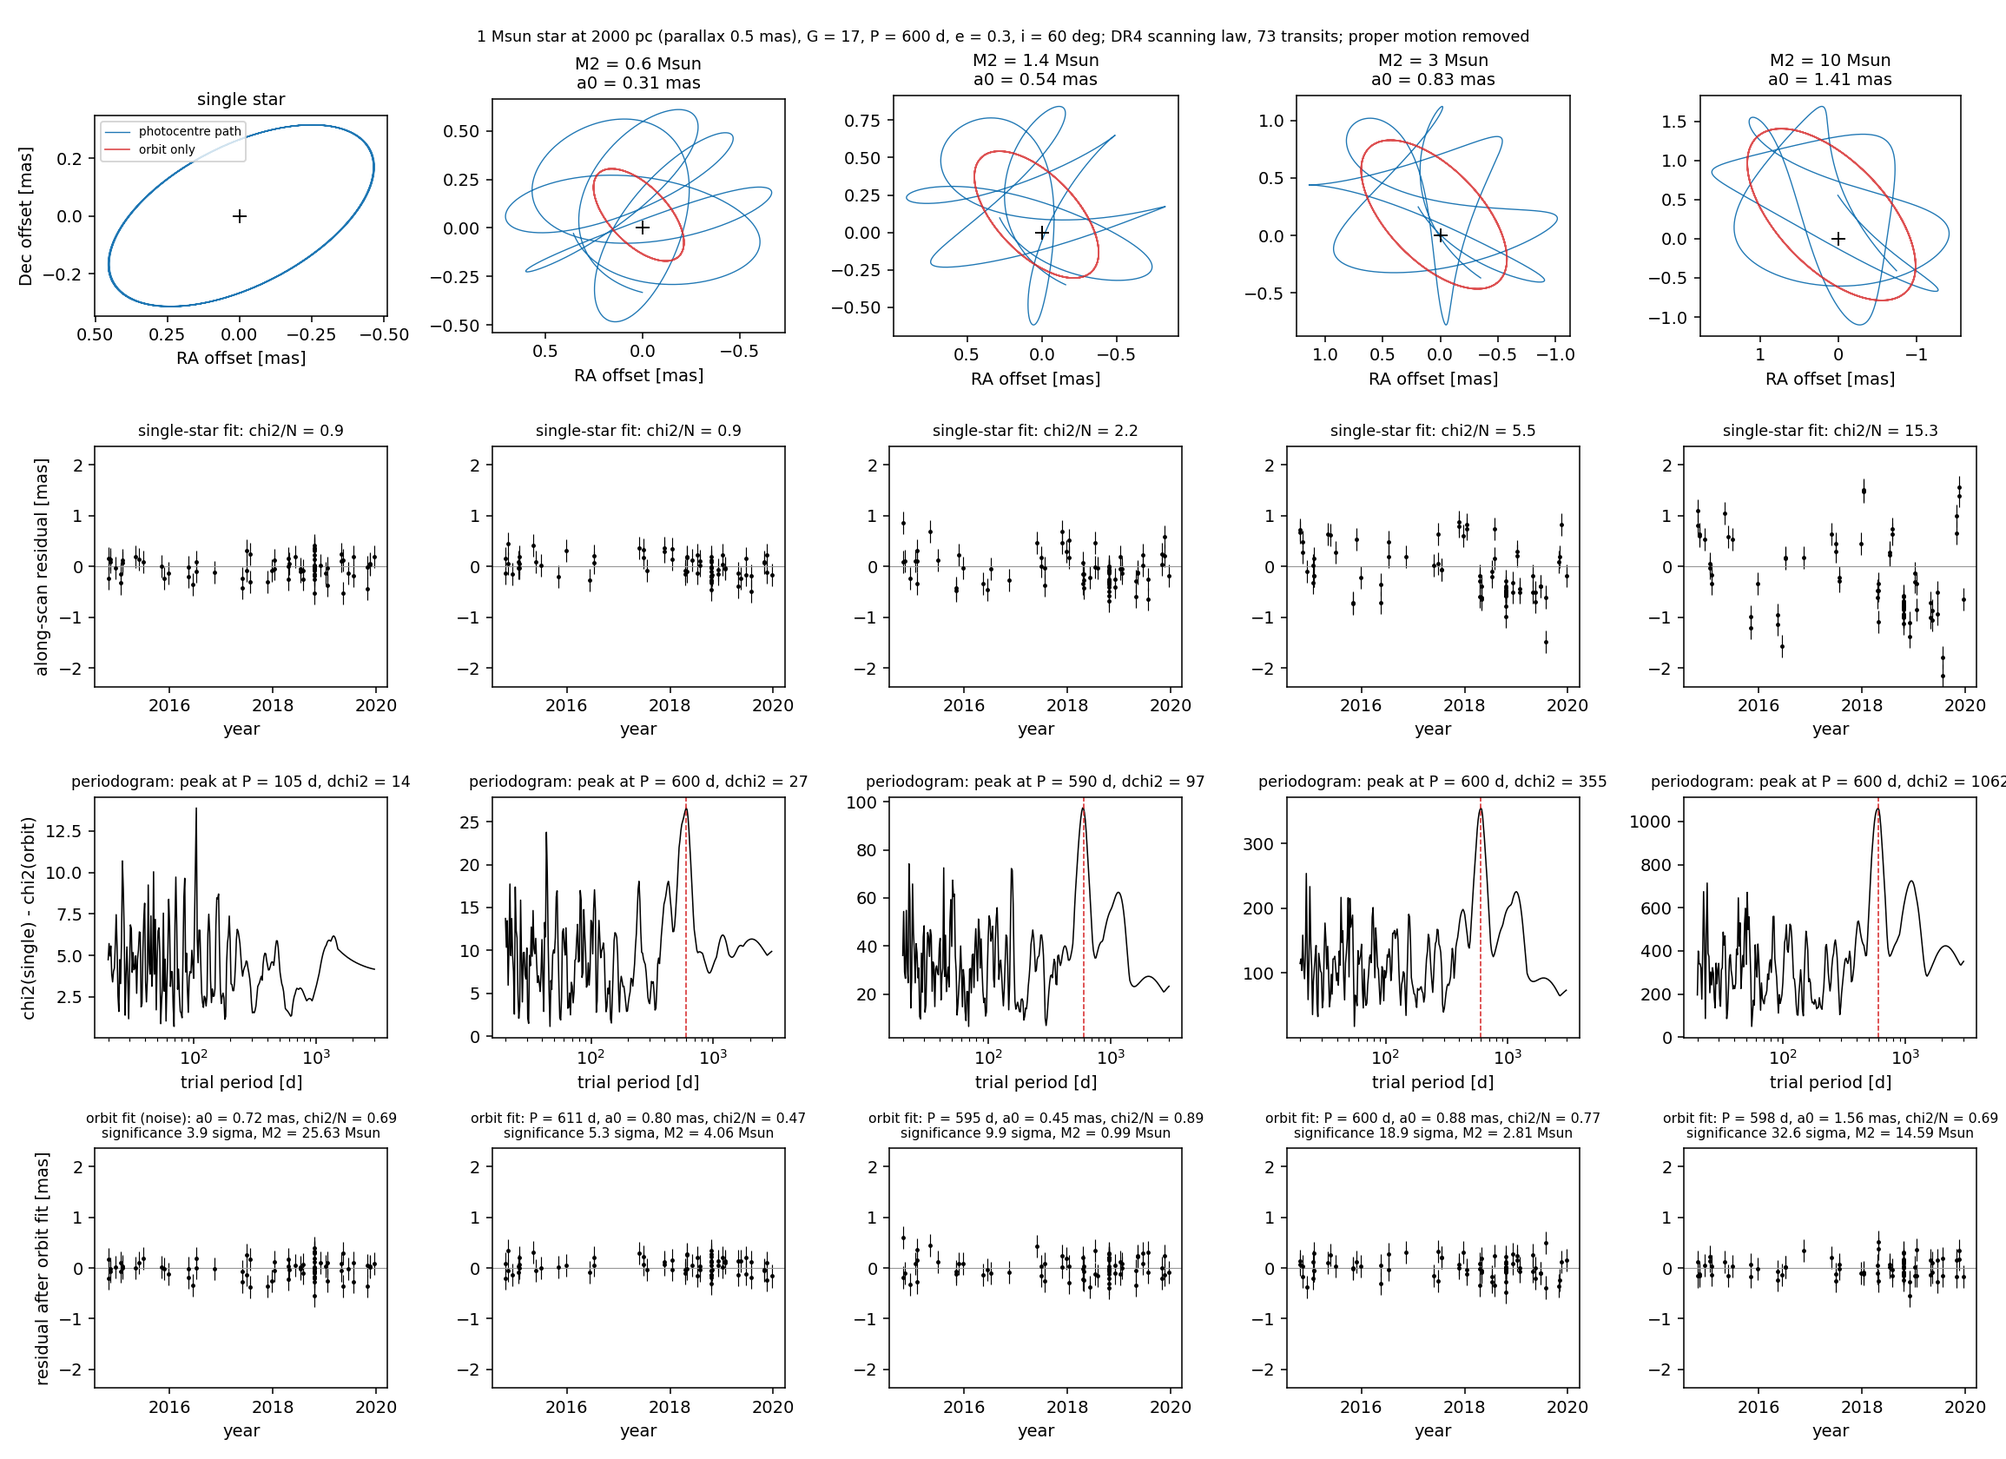
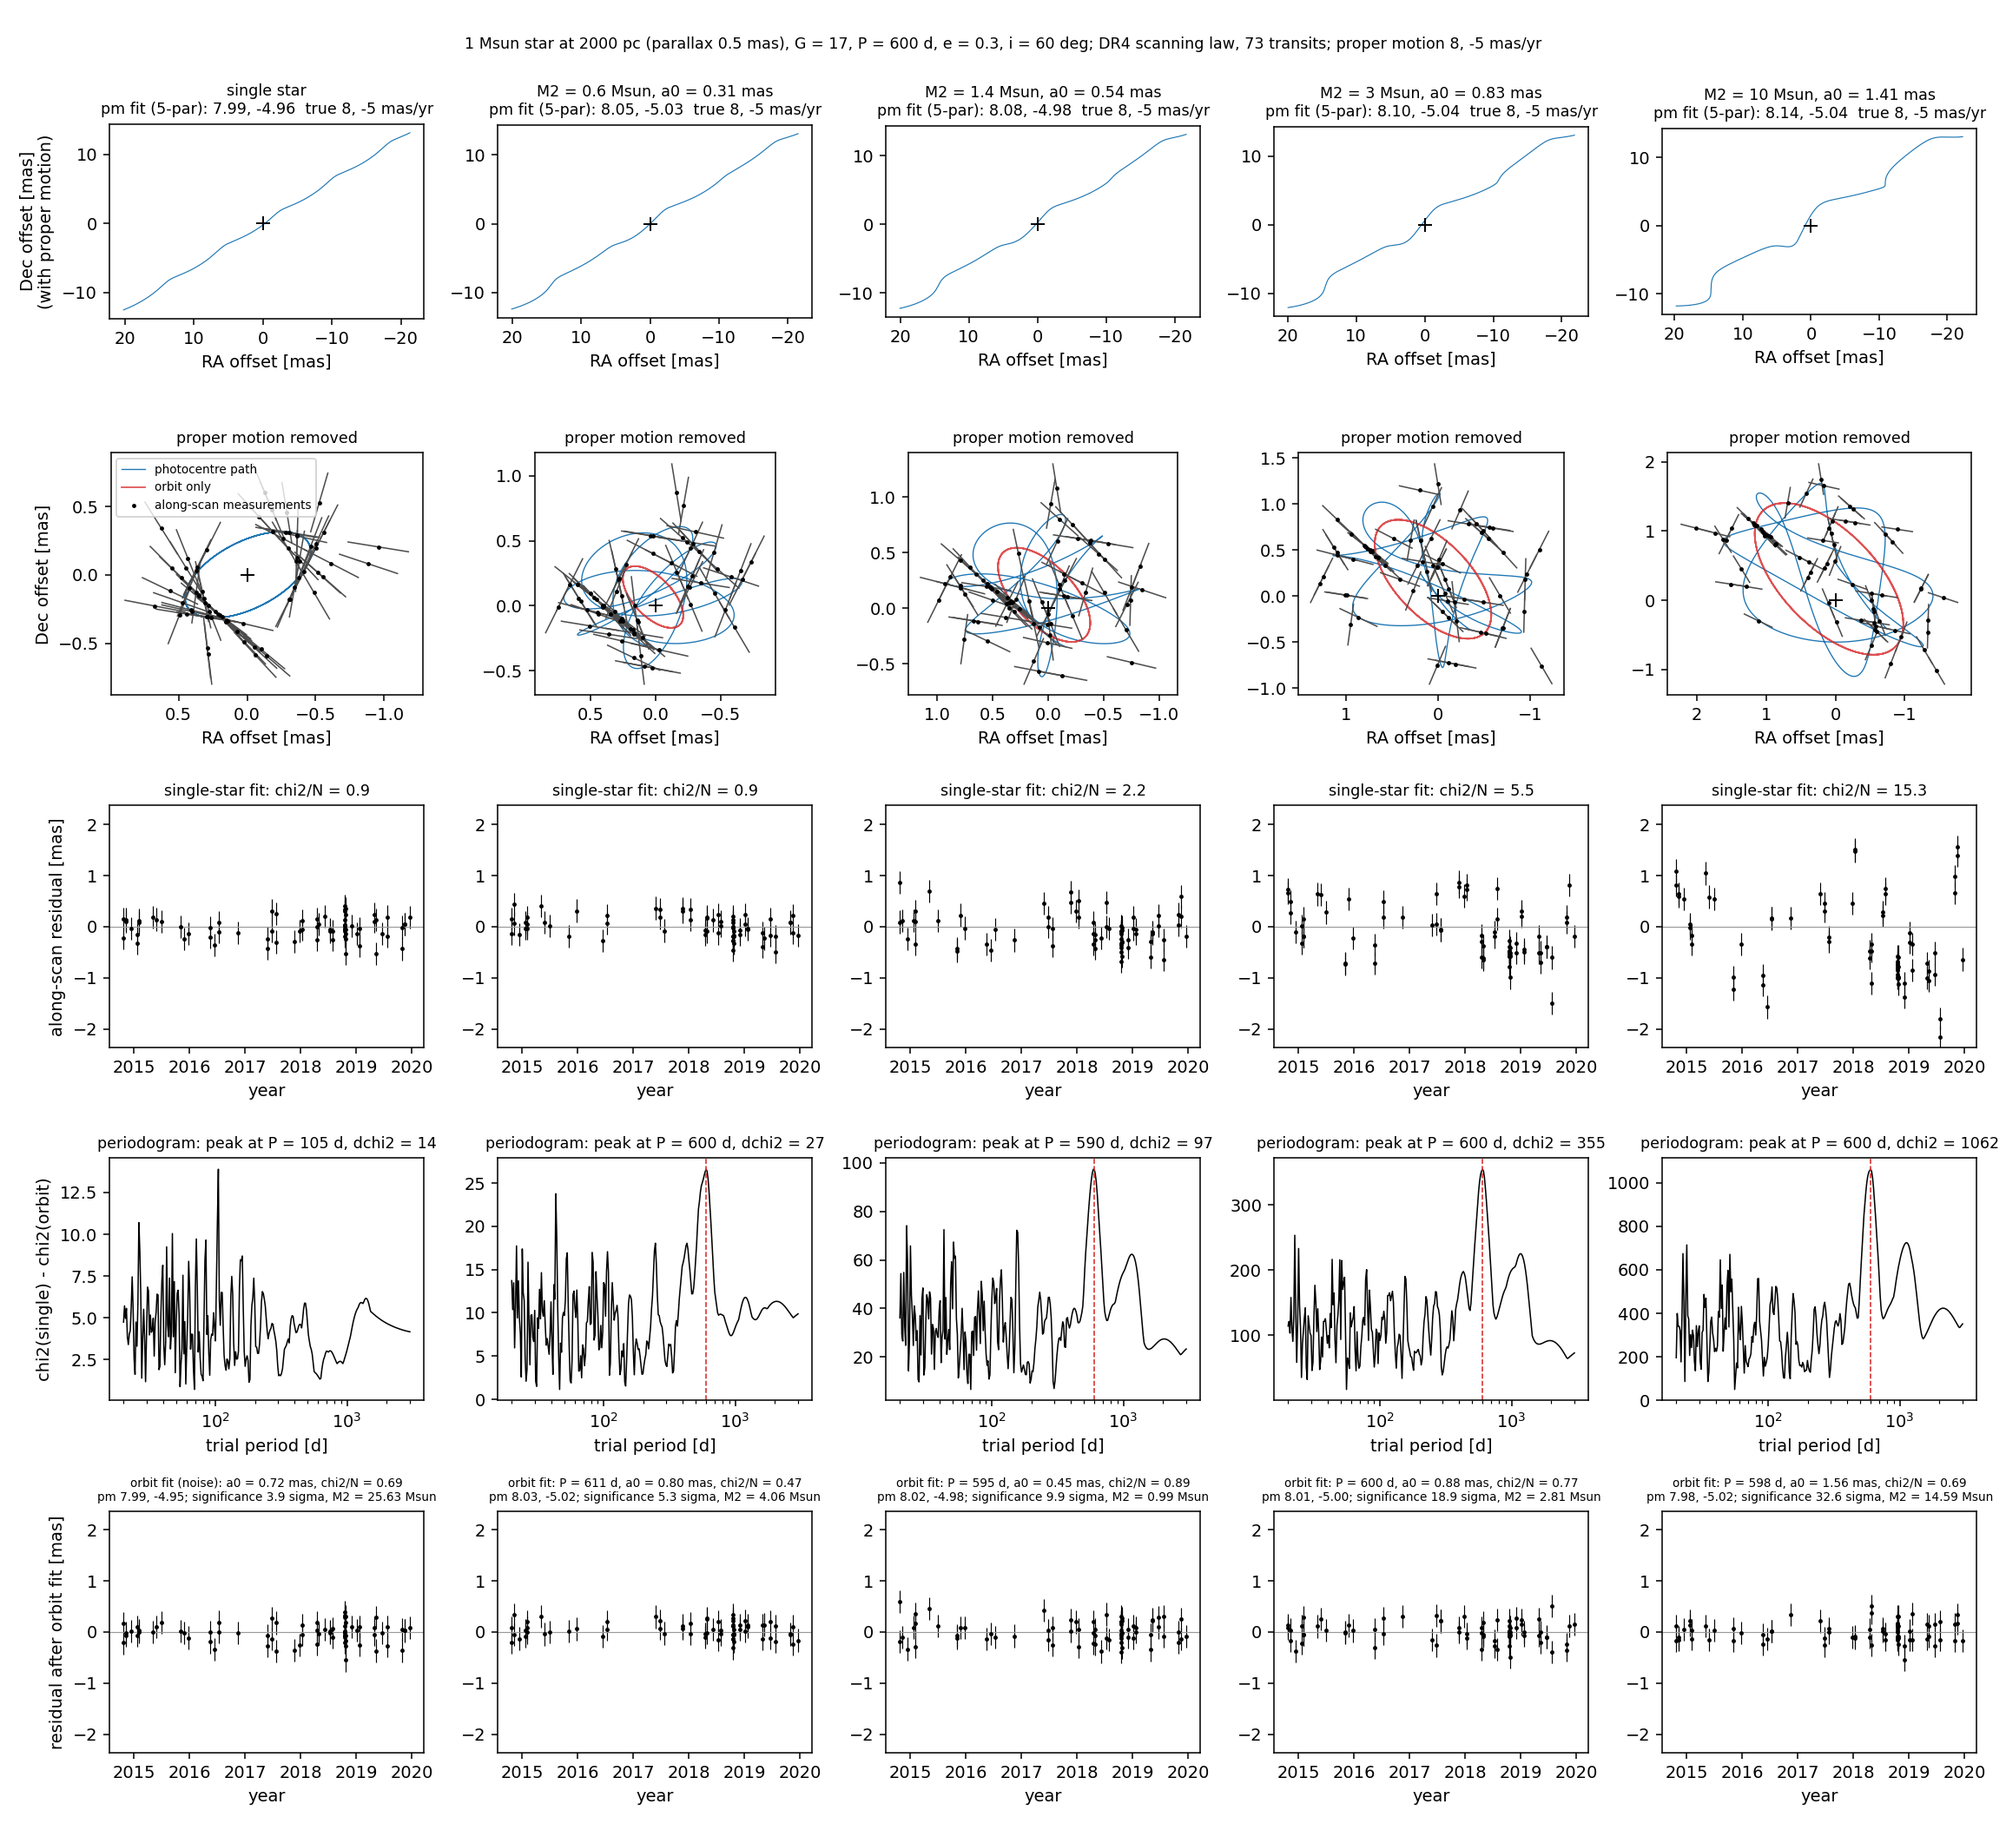
Track figure: proper-motion row, along-scan measurement bars, recovered pm

diff --git a/scripts/plot_tracks.py b/scripts/plot_tracks.py
@@ -3,12 +3,16 @@
     python scripts/plot_tracks.py [--dist 500] [--period 600] [--g-mag 14] [--out docs/figures/astrometric_tracks.png]
 
 Rows, for a single star and for dark companions of increasing mass around a 1 Msun primary:
-1. sky path of the photocentre over the DR4 span (proper motion removed, parallax ellipse kept);
-2. what Gaia measures: along-scan residuals after the best single-star (5-parameter) fit, at gaiamock's
-   DR4 scan times for a random sky position with gaiamock's per-transit error at the given G (pipeline step 1);
-3. the periodogram: profile log-likelihood improvement over the single-star fit vs trial period, maximised
-   over eccentricity and phase at each period (pipeline step 2), with the true period marked;
-4. residuals after the Levenberg-Marquardt orbital fit started at the periodogram peak (pipeline step 3).
+1. full sky path of the photocentre over the DR4 span: proper motion + parallax + orbit, with the
+   proper motion recovered by the single-star fit and by the orbit fit (an unmodelled orbit biases it);
+2. the same with proper motion removed, plus the observations: Gaia measures one coordinate per transit,
+   along the scan direction, so each measurement is drawn as a bar through the position at that epoch,
+   oriented along the scan angle, of length +- the error, offset by the measured residual;
+3. what the pipeline sees: along-scan residuals after the best single-star (5-parameter) fit at gaiamock's
+   DR4 scan times for a random sky position with gaiamock's per-transit error at the given G (step 1);
+4. the periodogram: chi2 improvement over the single-star fit vs trial period, maximised over eccentricity
+   and phase at each period (step 2), with the true period marked;
+5. residuals after the Levenberg-Marquardt orbital fit started at the periodogram peak (step 3).
 """
 import argparse, os, sys, warnings
 warnings.simplefilter("ignore")
@@ -23,6 +27,7 @@ ap.add_argument("--dist", type=float, default=500.0); ap.add_argument("--period"
 ap.add_argument("--ecc", type=float, default=0.3); ap.add_argument("--inc", type=float, default=60.0)
 ap.add_argument("--g-mag", type=float, default=14.0); ap.add_argument("--m-star", type=float, default=1.0)
 ap.add_argument("--m2", type=float, nargs="+", default=[0.0, 0.6, 1.4, 3.0, 10.0])
+ap.add_argument("--pm", type=float, nargs=2, default=[8.0, -5.0], help="pmra pmdec [mas/yr]")
 ap.add_argument("--seed", type=int, default=1); ap.add_argument("--out", default="docs/figures/astrometric_tracks.png")
 args = ap.parse_args()
 
@@ -31,7 +36,7 @@ plx = 1000.0 / args.dist
 n = len(args.m2)
 truth = mock.physical_population(rng, n, m_star=args.m_star, m_2=np.maximum(args.m2, 1e-9), dist_pc=args.dist, period=args.period)
 truth["ecc"][:] = args.ecc; truth["inc"][:] = np.radians(args.inc); truth["Omega"][:] = 0.8; truth["omega"][:] = 2.3; truth["t_peri"][:] = 100.0
-truth["pmra"][:] = 0.0; truth["pmdec"][:] = 0.0; truth["d_ra_mas"][:] = 0.0; truth["d_dec_mas"][:] = 0.0
+truth["pmra"][:] = args.pm[0]; truth["pmdec"][:] = args.pm[1]; truth["d_ra_mas"][:] = 0.0; truth["d_dec_mas"][:] = 0.0
 truth["a0_mas"][np.asarray(args.m2) == 0] = 0.0
 ra, dec = GB.random_sky(rng, 1); ra, dec = np.repeat(ra, n), np.repeat(dec, n)
 gm, c = GB.load()
@@ -55,7 +60,7 @@ def parallax_offsets(t_day):
 pra, pdec = parallax_offsets(t_dense)
 
 import matplotlib; matplotlib.use("Agg"); import matplotlib.pyplot as plt
-fig, ax = plt.subplots(4, n, figsize=(3.3 * n, 12.0))
+fig, ax = plt.subplots(5, n, figsize=(3.3 * n, 15.0))
 periods = np.geomspace(20, 3000, 300)
 sims = GB.simulate(np.random.default_rng(args.seed), truth, ra, dec, np.full(n, args.g_mag), "dr4")
 for j, m2 in enumerate(args.m2):
@@ -63,19 +68,39 @@ for j, m2 in enumerate(args.m2):
     A, B, F, G = (float(x) for x in orbit.thiele_innes_ABFG(p["a0_mas"], p["omega"], p["Omega"], p["inc"]))
     X, Y = (np.asarray(x) for x in E.keplerian_xy(jnp.asarray(t_dense), p["period"], p["ecc"], 2 * np.pi * p["t_peri"] / p["period"]))
     ora, odec = B * X + G * Y, A * X + F * Y
+    t_yr = t_dense / 365.25
+    ep = sims[j]; keep = ep.mask > 0; ts = ep.t_day[keep]; psi_s = ep.psi[keep]; w_obs = ep.w[keep]; err_s = ep.err[keep]
+    d = ep.as_jax(); beta, chi2, _ = E.fit_single_star(d)
+    # model position at the scan epochs and the measured along-scan residual relative to the truth
+    Xs, Ys = (np.asarray(x) for x in E.keplerian_xy(jnp.asarray(ts), p["period"], p["ecc"], 2 * np.pi * p["t_peri"] / p["period"]))
+    pra_s, pdec_s = parallax_offsets(ts)
+    ora_s, odec_s = B * Xs + G * Ys, A * Xs + F * Ys
+    w_model = (p["pmra"] * ts / 365.25 + ora_s) * np.sin(psi_s) + (p["pmdec"] * ts / 365.25 + odec_s) * np.cos(psi_s) + plx * ep.plx_factor[keep]
+    resid = w_obs - w_model
+    # row 1: full path with proper motion
     a = ax[0, j]
+    a.plot(p["pmra"] * t_yr + pra + ora, p["pmdec"] * t_yr + pdec + odec, "-", lw=0.6, c="C0")
+    a.plot(0, 0, "k+", ms=8); a.set_aspect("equal"); a.invert_xaxis()
+    pm1 = (float(beta[3]), float(beta[4]))
+    a.set_title(("single star" if m2 == 0 else f"M2 = {m2:g} Msun, a0 = {p['a0_mas']:.2f} mas") +
+                f"\npm fit (5-par): {pm1[0]:.2f}, {pm1[1]:.2f}  true {p['pmra']:g}, {p['pmdec']:g} mas/yr", fontsize=9)
+    a.set_xlabel("RA offset [mas]")
+    if j == 0:
+        a.set_ylabel("Dec offset [mas]\n(with proper motion)")
+    # row 2: proper motion removed, with the 1-D measurements
+    a = ax[1, j]
     a.plot(pra + ora, pdec + odec, "-", lw=0.7, c="C0", label="photocentre path")
     a.plot(ora, odec, "-", lw=0.9, c="C3", alpha=0.8, label="orbit only")
-    a.plot(0, 0, "k+", ms=8)
-    a.set_aspect("equal"); a.invert_xaxis()
-    a.set_title(("single star" if m2 == 0 else f"M2 = {m2:g} Msun") + ("" if m2 == 0 else f"\na0 = {p['a0_mas']:.2f} mas"), fontsize=10)
-    a.set_xlabel("RA offset [mas]"); 
+    xo, yo = pra_s + ora_s + resid * np.sin(psi_s), pdec_s + odec_s + resid * np.cos(psi_s)
+    a.plot([xo - err_s * np.sin(psi_s), xo + err_s * np.sin(psi_s)], [yo - err_s * np.cos(psi_s), yo + err_s * np.cos(psi_s)], "-", c="0.3", lw=0.8)
+    a.plot(xo, yo, ".", c="k", ms=3, label="along-scan measurements")
+    a.plot(0, 0, "k+", ms=8); a.set_aspect("equal"); a.invert_xaxis()
+    a.set_title("proper motion removed", fontsize=9); a.set_xlabel("RA offset [mas]")
     if j == 0:
         a.set_ylabel("Dec offset [mas]"); a.legend(fontsize=7, loc="upper left")
     # bottom: along-scan residuals after a single-star fit, at gaiamock scan times
-    ep = sims[j]; d = ep.as_jax(); beta, chi2, _ = E.fit_single_star(d)
     res = np.asarray(d["w"] - E.single_star_design(d) @ beta)[ep.mask > 0]
-    b = ax[1, j]
+    b = ax[2, j]
     b.errorbar(ep.t_day[ep.mask > 0] / 365.25 + 2017.5, res, yerr=ep.err[ep.mask > 0], fmt=".", ms=3, lw=0.6, c="k")
     b.axhline(0, c="0.6", lw=0.6)
     b.set_title(f"single-star fit: chi2/N = {float(chi2)/ep.n:.1f}", fontsize=9)
@@ -85,7 +110,7 @@ for j, m2 in enumerate(args.m2):
     # periodogram (step 2) and orbital fit (step 3)
     ll, be, bp = E.period_search(d, periods); ll = np.asarray(ll); k = int(np.argmax(ll))
     dchi2 = 2 * (ll - (-0.5 * float(chi2)))
-    cpg = ax[2, j]; cpg.semilogx(periods, dchi2, "-", lw=0.8, c="k")
+    cpg = ax[3, j]; cpg.semilogx(periods, dchi2, "-", lw=0.8, c="k")
     if m2 > 0:
         cpg.axvline(p["period"], c="C3", lw=0.8, ls="--")
     cpg.set_title(f"periodogram: peak at P = {periods[k]:.0f} d, dchi2 = {dchi2[k]:.0f}", fontsize=9); cpg.set_xlabel("trial period [d]")
@@ -95,14 +120,14 @@ for j, m2 in enumerate(args.m2):
     M = E.orbital_design(d, r["period"], r["ecc"], r["phase"])
     beta9, chi2o, _ = E.weighted_lstsq(M, d)
     res_o = np.asarray(d["w"] - M @ beta9)[ep.mask > 0]
-    cf = ax[3, j]; cf.errorbar(ep.t_day[ep.mask > 0] / 365.25 + 2017.5, res_o, yerr=ep.err[ep.mask > 0], fmt=".", ms=3, lw=0.6, c="k"); cf.axhline(0, c="0.6", lw=0.6)
-    cf.set_title((f"orbit fit: P = {r['period']:.0f} d, a0 = {r['a0_mas']:.2f} mas, " if m2 > 0 else f"orbit fit (noise): a0 = {r['a0_mas']:.2f} mas, ") + f"chi2/N = {float(chi2o)/ep.n:.2f}\nsignificance {r['significance']:.1f} sigma, M2 = {float(m2_from_mass_function(mass_function_astrometric(r['a0_mas'], r['linear']['parallax'], r['period']), args.m_star)):.2f} Msun", fontsize=8)
+    cf = ax[4, j]; cf.errorbar(ep.t_day[ep.mask > 0] / 365.25 + 2017.5, res_o, yerr=ep.err[ep.mask > 0], fmt=".", ms=3, lw=0.6, c="k"); cf.axhline(0, c="0.6", lw=0.6)
+    cf.set_title((f"orbit fit: P = {r['period']:.0f} d, a0 = {r['a0_mas']:.2f} mas, " if m2 > 0 else f"orbit fit (noise): a0 = {r['a0_mas']:.2f} mas, ") + f"chi2/N = {float(chi2o)/ep.n:.2f}\npm {r['linear']['pmra']:.2f}, {r['linear']['pmdec']:.2f}; significance {r['significance']:.1f} sigma, M2 = {float(m2_from_mass_function(mass_function_astrometric(r['a0_mas'], r['linear']['parallax'], r['period']), args.m_star)):.2f} Msun", fontsize=7)
     cf.set_xlabel("year")
     if j == 0:
         cf.set_ylabel("residual after orbit fit [mas]")
-ylim = max(np.abs(np.concatenate([l.get_ydata() for a_ in ax[1] for l in a_.get_lines()])).max(), 0.2)
-for b in list(ax[1]) + list(ax[3]):
+ylim = max(np.abs(np.concatenate([l.get_ydata() for a_ in ax[2] for l in a_.get_lines()])).max(), 0.2)
+for b in list(ax[2]) + list(ax[4]):
     b.set_ylim(-ylim * 1.1, ylim * 1.1)
 fig.suptitle(f"{args.m_star:g} Msun star at {args.dist:g} pc (parallax {plx:.1f} mas), G = {args.g_mag:g}, P = {args.period:g} d, e = {args.ecc:g}, i = {args.inc:g} deg; "
-             f"DR4 scanning law, {int(ep.n)} transits; proper motion removed", fontsize=9)
-plt.tight_layout(); plt.savefig(args.out, dpi=140); print("saved", args.out)
+             f"DR4 scanning law, {int(ep.n)} transits; proper motion {args.pm[0]:g}, {args.pm[1]:g} mas/yr", fontsize=9)
+plt.tight_layout(rect=[0, 0, 1, 0.975]); plt.savefig(args.out, dpi=140); print("saved", args.out)

diff --git a/docs/RUNNING.md b/docs/RUNNING.md
@@ -253,10 +253,12 @@ python scripts/plot_tracks.py                                  # 1 Msun star at 
 python scripts/plot_tracks.py --dist 2000 --g-mag 17 --out docs/figures/astrometric_tracks_2kpc.png
 ```
 
-draws, for a single star and for dark companions of 0.6, 1.4, 3 and 10 Msun: the sky path of the
-photocentre over the DR4 span, the along-scan residuals after the single-star fit at gaiamock's scan
-times (step 1 of the pipeline), the periodogram (step 2) and the residuals after the orbital fit with
-the recovered a0, significance and M2 (step 3). `docs/figures/astrometric_tracks.png` and
+draws, for a single star and for dark companions of 0.6, 1.4, 3 and 10 Msun: the full sky path with
+proper motion and the proper motion recovered by the single-star fit (biased by an unmodelled orbit);
+the path with proper motion removed together with the measurements, each drawn as a bar along the scan
+direction since Gaia measures one coordinate per transit; the along-scan residuals after the single-star
+fit (step 1 of the pipeline); the periodogram (step 2); and the residuals after the orbital fit with the
+recovered proper motion, a0, significance and M2 (step 3). `docs/figures/astrometric_tracks.png` and
 `astrometric_tracks_2kpc.png` are the two cases above.
 
 ## 7. Posterior for a candidate (NUTS)
